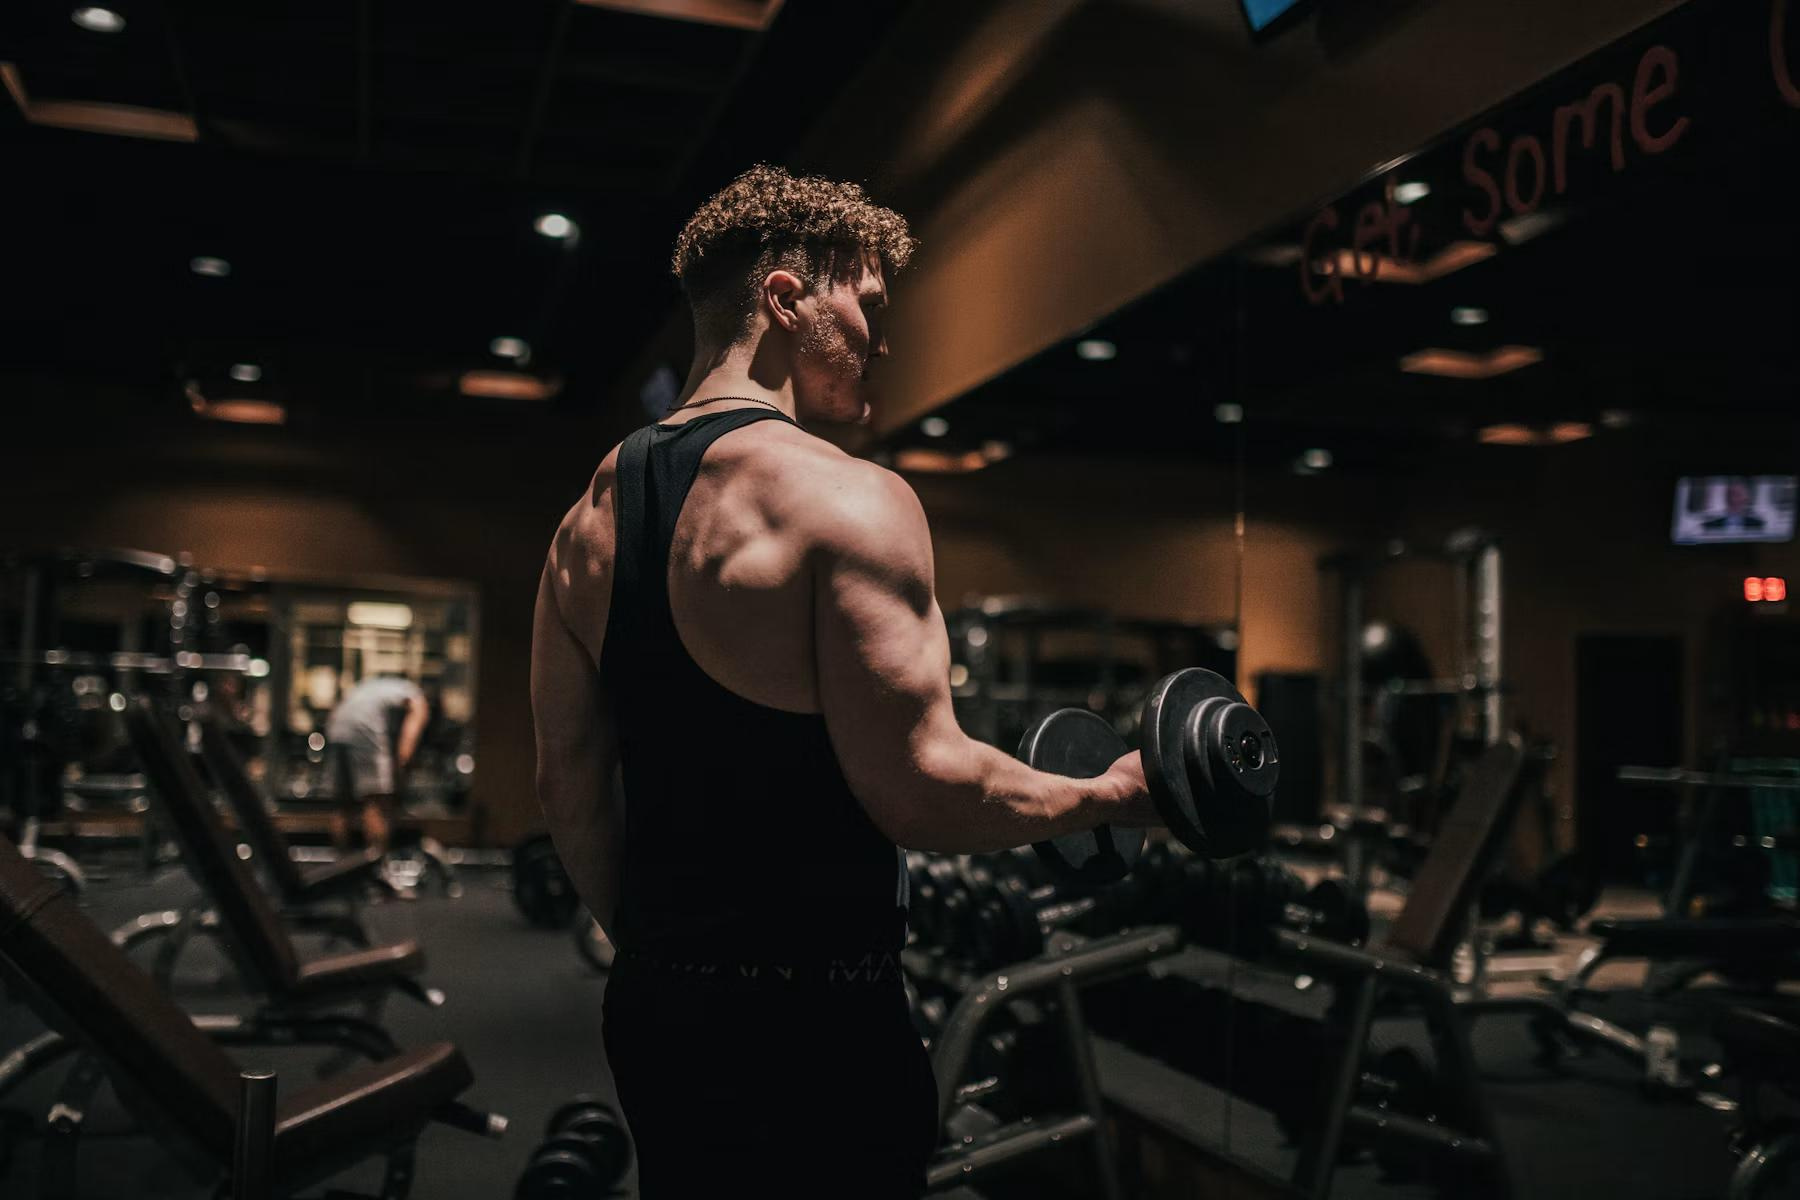
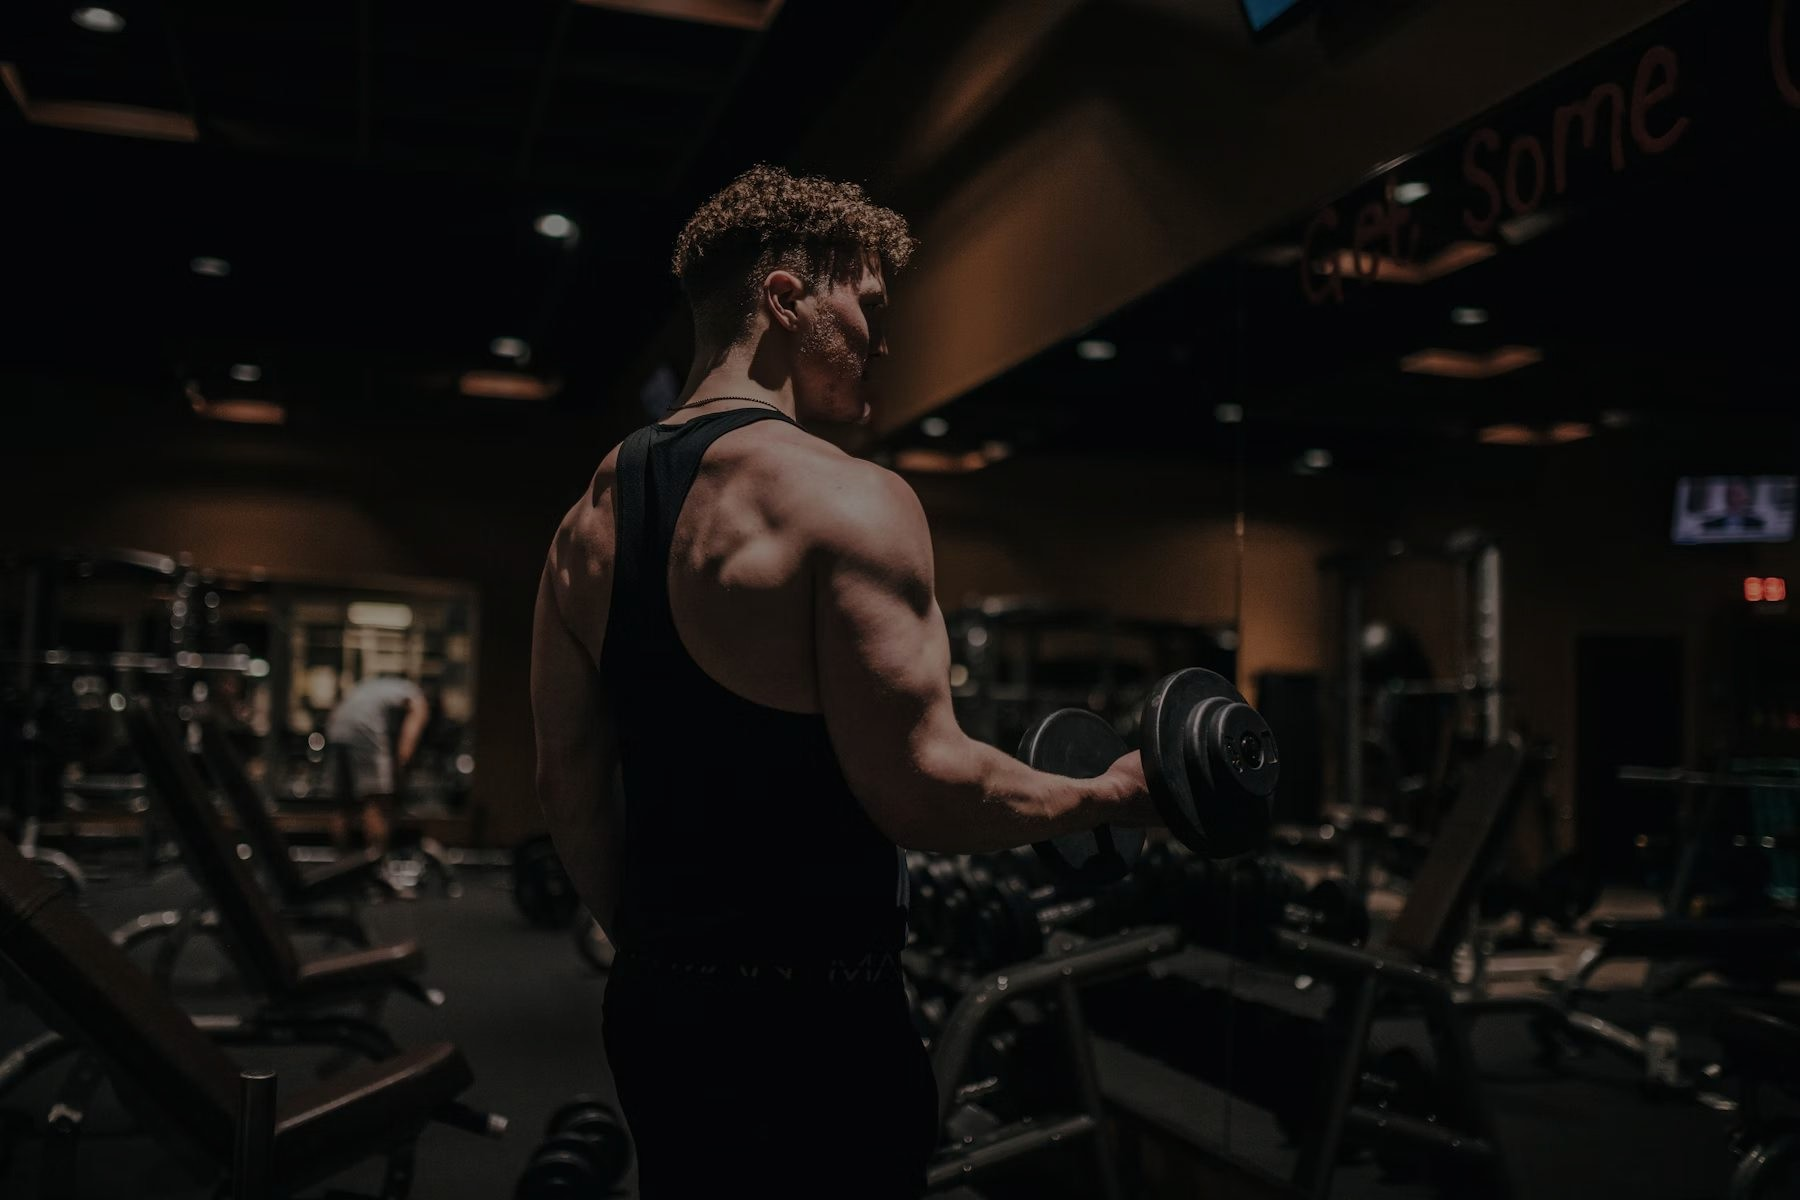
the acceuil page's primery functions are gode for now, next steps is add animation!

diff --git a/acceuilMaine.html b/acceuilMaine.html
@@ -6,6 +6,8 @@
     <meta name="viewport" content="width=device-width, initial-scale=1.0">
     <title>Document</title>
     <link rel="stylesheet" href="">
+    <link rel="stylesheet" href="stylesfooter.css">
+
     <style>
         * {
             box-sizing: border-box;
@@ -14,15 +16,20 @@
             color: white;
         }
 
-        
+
 
         body {
             font-family: "Inter", sans-serif;
-            background-image: url(images/a1aa074e768b45546adb542b3ac6f2774f956a4c.jpg);
+            /* background-image: url(images/a1aa074e768b45546adb542b3ac6f2774f956a4c.jpg); */
+            background-image: url(images/e1becd020e5273b9aedfb2f35d9d00b9e3780aa6.jpg);
             background-repeat: no-repeat;
             background-size: cover;
             background-position: center center;
             background-attachment: fixed;
+        }
+        main{
+            display: flex;
+            flex-direction: column;
         }
 
         .main {
@@ -30,7 +37,8 @@
             display: flex;
             justify-content: space-between;
             gap: 20vh;
-            margin: 10px;
+            max-width: 1300px;
+            margin: auto;
         }
 
         #sidbor {
@@ -39,6 +47,9 @@
         }
 
         .experience {
+            display: flex;
+            flex-direction: column;
+            justify-content: space-between;
             margin-top: 5%;
 
         }
@@ -48,7 +59,7 @@
         }
 
         .motivationSection {
-            transform: translate(0, 10vh);
+            /* transform: translate(0, 10vh); */
         }
 
         .motivationSection>div {
@@ -77,14 +88,16 @@
         }
 
         .joinSection {
-            transform: translate(-10%, 60vh);
-            font-size: 20px;
-            width: 70%;
+            /* transform: translate(-10%, 60vh); */
+            font-size: 18px;
+            width: 100%;
+            font-family: 'Franklin Gothic Medium', 'Arial Narrow', Arial, sans-serif;
         }
 
         .joinSection>button {
             margin: 10px 0 0 0;
             color: black;
+            border: 0;
             background-color: gold;
             font-weight: 800;
             font-size: 15px;
@@ -109,6 +122,10 @@
             border-left: 1px solid white;
         }
 
+        .imagRounded>p {
+            padding: 10px 0;
+        }
+
         .imagRounded>p>span {
             color: gold;
         }
@@ -116,8 +133,15 @@
         .beltSection {
             font-size: 20px;
             width: 100%;
+            height: 30px;
             background-color: gold;
-            transform: translate(0, 40vh)
+            /* transform: translate(0, 40vh); */
+            font-family: 'Franklin Gothic Medium', 'Arial Narrow', Arial, sans-serif;
+        }
+
+        @keyframes beltMov {
+
+            0% {}
         }
 
         /* =========================================== */
@@ -203,6 +227,9 @@
                 text-align: center;
             }
         }
+        main{
+            display: ;
+        }
     </style>
 </head>
 
@@ -231,7 +258,8 @@
                 <h1 id="motivation">Trasform your mind & <span>muscls</span></h1>
                 <div>
                     <!-- <video src=""></video> -->
-                    <img id="video" src="images/photo-1734630341082-0fec0e10126c.avif" alt="">
+                    <img id="video" src="images/ebcd103579ad79e704cf99df2398a69397cd7e0b.jpg" alt="">
+                    <img src="" alt="">
                     <div class="imagRounded">
                         <img src="images/photo-1605490855119-94921710a47f.avif" alt="">
                         <img src="images/photo-1574680088814-c9e8a10d8a4d.avif" alt="">
@@ -269,7 +297,60 @@
             strength &#9670
         </div>
     </main>
-    <footer></footer>
+    <footer>
+
+        <div class="upperfoot">
+            <section>
+
+                <div class="logo">
+                    <img src="Images/logo.png" alt="logo picture " class="logoicone">
+                    <h2>FitNix</h2>
+                </div>
+
+                <p>Science-backed training, <br>expert coaching and a community <br>that never lets you quit.</p>
+
+            </section>
+            <section>
+                <h3>Explore</h3>
+                <ul class="nav-links">
+                    <li><a href="about.html">About</a></li>
+                    <li><a href="program.html">Programs</li>
+                    <li><a href="Trainers.html">Trainers</a></li>
+                    <li><a href="pricing.html">Pricing</a></li>
+                    <li><a href="Testimonials.html">Testimonials</a></li>
+                </ul>
+            </section>
+            <section>
+                <h3>Hours</h3>
+                <ul>
+                    <li>Mon–Fri · 6am–10pm</li>
+                    <li>Saturday · 7am–9pm</li>
+                    <li>Sunday · 8am–8pm</li>
+                    <li style="color: #FFE14D;">24/7 for Pro & Elite</li>
+                </ul>
+            </section>
+            <section>
+                <h3>Newsletter</h3>
+                <p>Weekly workouts, recipes and member
+                    offers.</p>
+                <input type="email" placeholder="Your email">
+                <button class="lowerbtn">
+                    <b>JOIN</b>
+                </button>
+            </section>
+        </div>
+
+        <img src="Images/fitnix.png" alt="background-footer " class="background-footer">
+
+        <section class="foot">
+            <p>© 2026 FitNix. All rights reserved.</p>
+            <ul>
+                <li>Privacy Policy</li>
+                <li>Terms of Service</li>
+                <li>Cookies</li>
+            </ul>
+        </section>
+    </footer>
 </body>
 
 </html>
